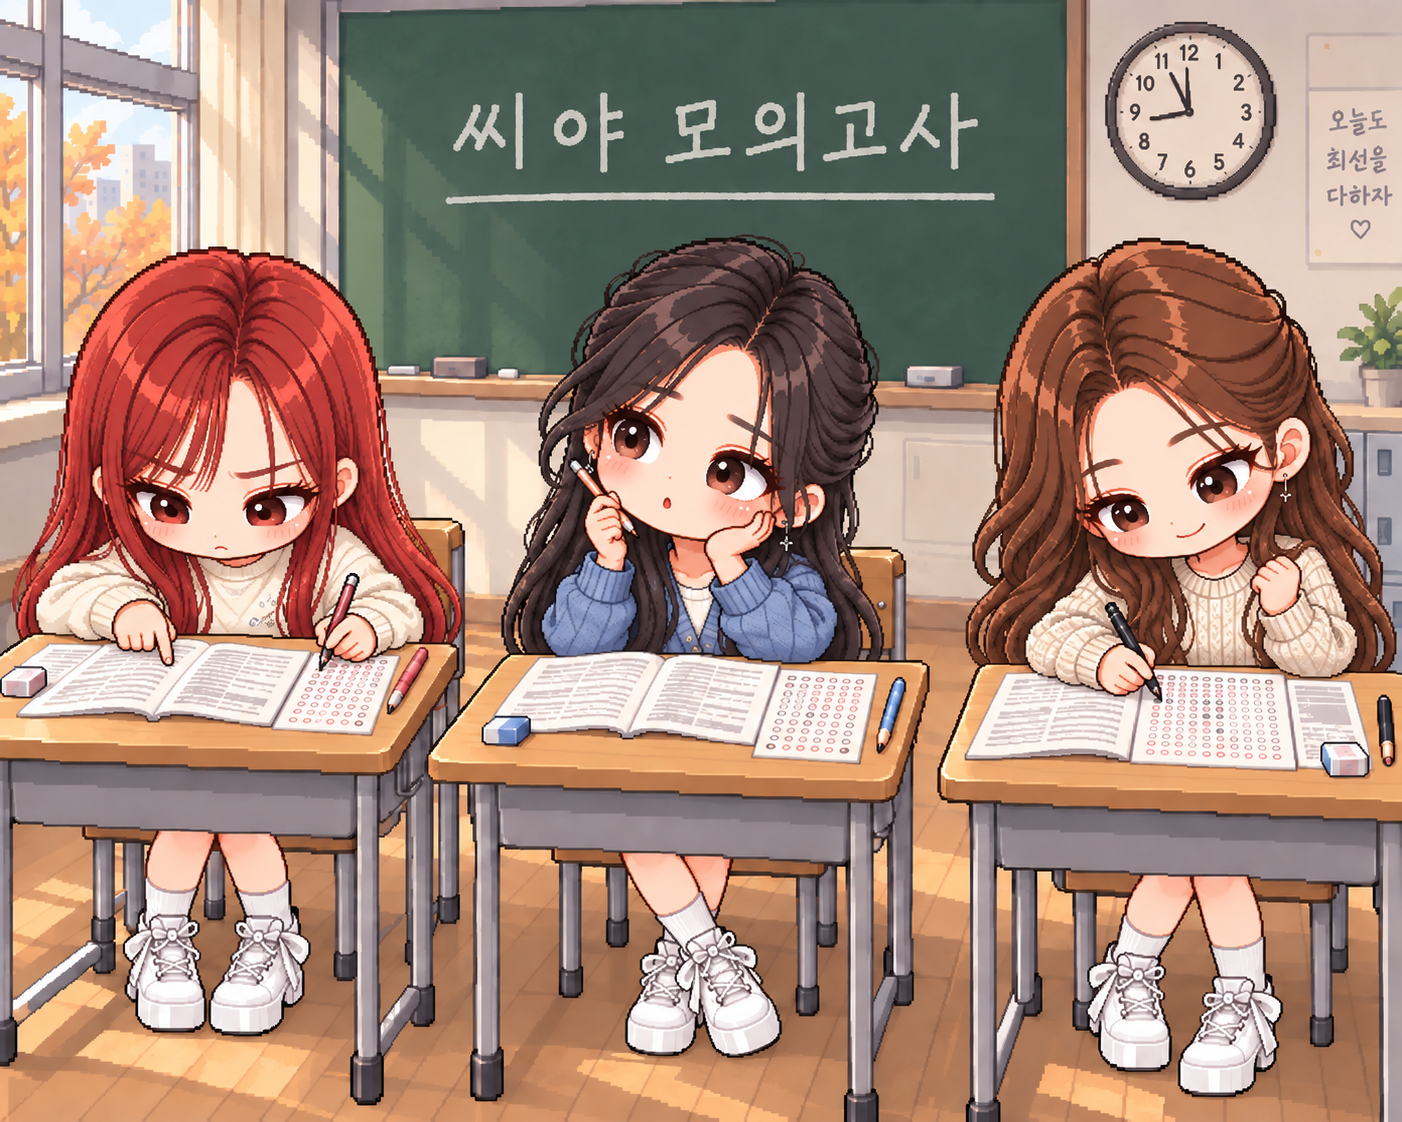
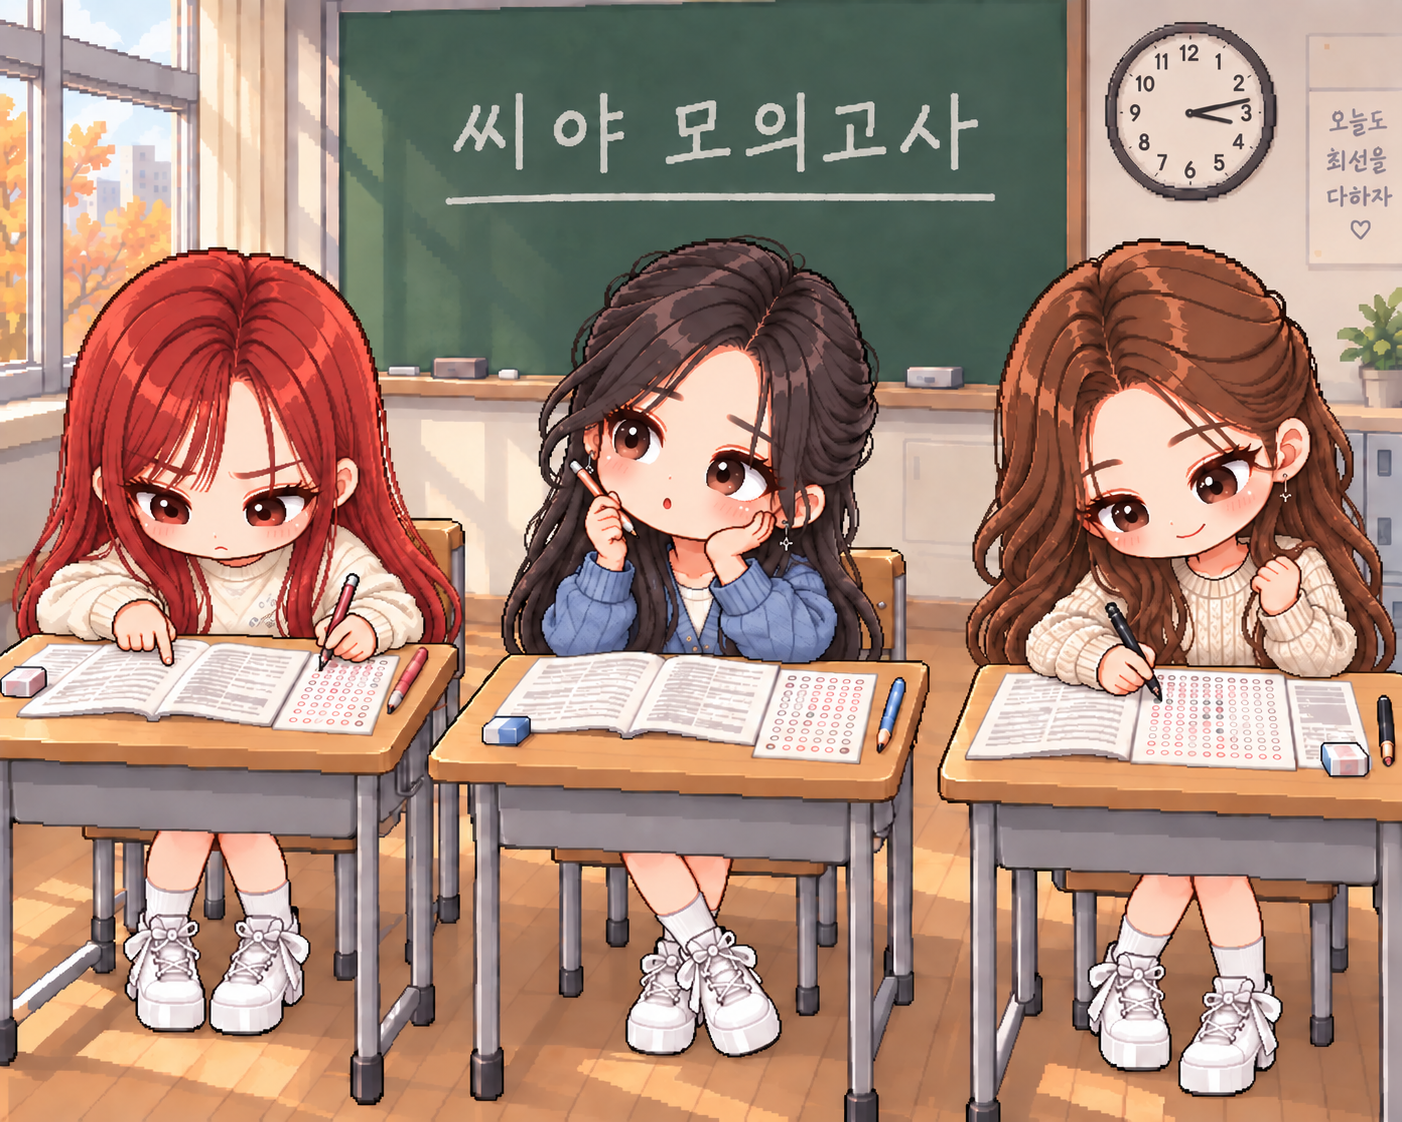
4.100

diff --git a/src/pages/exam.js b/src/pages/exam.js
@@ -7,7 +7,7 @@ module.exports=()=>W(`<section class="game-hub game-exam-page">
     <h1>씨야 모의고사</h1>
     <p>씨야와 함께한 시간, 얼마나 기억하고 있나요?<br>팬심을 확인할 새로운 시험을 준비하고 있어요.</p>
   </header>
-  <figure class="game-exam-illustration"><img src="/images/game/seeya-exam.png?v=4.99" alt="교실에서 씨야 모의고사를 푸는 세 멤버의 일러스트" width="1402" height="1122"></figure>
+  <figure class="game-exam-illustration"><img src="/images/game/seeya-exam.png?v=4.100" alt="교실에서 씨야 모의고사를 푸는 세 멤버의 일러스트" width="1402" height="1122"></figure>
   <section class="game-exam-notice" aria-labelledby="exam-status-title">
     <span class="game-card-kicker">SEEYA EXAM</span>
     <h2 id="exam-status-title">업데이트 예정</h2>

diff --git a/src/pages/games.js b/src/pages/games.js
@@ -18,7 +18,7 @@ module.exports=()=>W(`<section class="game-hub">
       </div>
     </a>
     <a class="game-card game-card-exam" href="/game/exam/" aria-labelledby="game-exam-title" aria-describedby="game-exam-description game-exam-status">
-      <div class="game-card-art game-card-art-exam"><img src="/images/game/seeya-exam.png?v=4.99" alt="교실에서 씨야 모의고사를 푸는 세 멤버의 일러스트" width="1402" height="1122" loading="lazy"></div>
+      <div class="game-card-art game-card-art-exam"><img src="/images/game/seeya-exam.png?v=4.100" alt="교실에서 씨야 모의고사를 푸는 세 멤버의 일러스트" width="1402" height="1122" loading="lazy"></div>
       <div class="game-card-copy">
         <span class="game-card-kicker">02 · SEEYA EXAM</span>
         <h2 id="game-exam-title">씨야 모의고사</h2>

diff --git a/game/index.html b/game/index.html
@@ -98,7 +98,7 @@
       </div>
     </a>
     <a class="game-card game-card-exam" href="/game/exam/" aria-labelledby="game-exam-title" aria-describedby="game-exam-description game-exam-status">
-      <div class="game-card-art game-card-art-exam"><img src="/images/game/seeya-exam.png?v=4.99" alt="교실에서 씨야 모의고사를 푸는 세 멤버의 일러스트" width="1402" height="1122" loading="lazy"></div>
+      <div class="game-card-art game-card-art-exam"><img src="/images/game/seeya-exam.png?v=4.100" alt="교실에서 씨야 모의고사를 푸는 세 멤버의 일러스트" width="1402" height="1122" loading="lazy"></div>
       <div class="game-card-copy">
         <span class="game-card-kicker">02 · SEEYA EXAM</span>
         <h2 id="game-exam-title">씨야 모의고사</h2>

diff --git a/game/exam/index.html b/game/exam/index.html
@@ -87,7 +87,7 @@
     <h1>씨야 모의고사</h1>
     <p>씨야와 함께한 시간, 얼마나 기억하고 있나요?<br>팬심을 확인할 새로운 시험을 준비하고 있어요.</p>
   </header>
-  <figure class="game-exam-illustration"><img src="/images/game/seeya-exam.png?v=4.99" alt="교실에서 씨야 모의고사를 푸는 세 멤버의 일러스트" width="1402" height="1122"></figure>
+  <figure class="game-exam-illustration"><img src="/images/game/seeya-exam.png?v=4.100" alt="교실에서 씨야 모의고사를 푸는 세 멤버의 일러스트" width="1402" height="1122"></figure>
   <section class="game-exam-notice" aria-labelledby="exam-status-title">
     <span class="game-card-kicker">SEEYA EXAM</span>
     <h2 id="exam-status-title">업데이트 예정</h2>

diff --git a/README.md b/README.md
@@ -1,14 +1,14 @@
-# SEEYA ARCHIVE — v4.99
+# SEEYA ARCHIVE — v4.100
 
-v4.94 이후 변경 사항을 모두 포함한 누적 업데이트입니다. 모의고사 이미지·SEEYA PLAY 카드·오늘 날짜의 씨야·TODAY 카드 폭·로컬 배치파일을 함께 적용합니다. 중간 버전인 v4.97을 건너뛰고 v4.98만 적용했어도 이번 ZIP을 한 번 덮어쓰면 됩니다.
+모의고사 카드와 “업데이트 예정” 안내 화면을 2026년 9월 13일 오후 9시 13분에 제공받은 수정 이미지로 교체했습니다. 원본 파일을 그대로 사용하며, 주소의 버전 표시를 갱신해 이전 이미지 캐시와 구분합니다. v4.94 이후 필요한 변경 사항을 모두 포함한 누적 업데이트입니다.
 
 ## 이번 업데이트 적용
 
 1. GitHub Desktop에서 **Fetch origin → Pull origin**으로 최신 파일을 받습니다.
-2. `SEEYA_v4_99_UPLOAD.zip`의 내용물을 저장소 최상위 폴더에 같은 경로로 복사합니다.
+2. `SEEYA_v4_100_UPLOAD.zip`의 내용물을 저장소 최상위 폴더에 같은 경로로 복사합니다.
 3. 변경 내역을 확인하고 **Commit → Push**합니다. 기존 Actions의 사이트 빌드와 Pages 배포 완료를 기다립니다.
 
-이번 UPLOAD는 **v4.94~v4.98에서 바로 적용할 수 있는 누적본**입니다. 새 모의고사 이미지 파일과 관련 페이지·스타일·날짜 기능·배치파일이 모두 들어 있습니다. 기존 아카이브·뉴스·사진·방문자 데이터와 생성 HTML은 덮어쓰지 않습니다. 이미지 주소에는 버전 표시를 붙여 이전 응답이 캐시에 남아도 새 주소로 요청합니다. FULL_BACKUP은 전체 보관용이며 로컬 확인을 위해 풀 필요는 없습니다.
+이번 UPLOAD는 **v4.94~v4.99에서 바로 적용할 수 있는 누적본**입니다. 새 모의고사 이미지 파일과 관련 페이지·스타일·날짜 기능·배치파일이 모두 들어 있습니다. 기존 아카이브·뉴스·사진·방문자 데이터와 생성 HTML은 덮어쓰지 않습니다. 이미지 주소에는 버전 표시를 붙여 이전 응답이 캐시에 남아도 새 주소로 요청합니다. FULL_BACKUP은 전체 보관용이며 로컬 확인을 위해 풀 필요는 없습니다.
 
 앞으로도 UPLOAD는 직전 버전에서 바뀐 파일만 담지 않고, 이 소스 구조의 기준 버전(v4.94) 이후 필요한 소스·추가 이미지·실행 파일을 누적해 제공합니다. 지원 기준을 바꾸는 경우 README에 먼저 명시합니다. 업데이트 ZIP을 빈 폴더에 푸는 신규 설치 방식은 지원하지 않으며 기존 사이트 폴더에 덮어써야 합니다.
 

diff --git a/CHANGELOG.md b/CHANGELOG.md
@@ -1,5 +1,12 @@
 # SEEYA ARCHIVE 변경 기록
 
+## v4.100 — 모의고사 수정 이미지 교체 (2026-09-13)
+
+- 제공받은 “Codex 이미지 2026년 9월 13일 오후 09_13_24.png”를 모의고사 이미지로 교체했습니다. SEEYA PLAY 카드와 “업데이트 예정” 페이지가 같은 수정 원본을 사용합니다.
+- 이미지 요청 주소를 `seeya-exam.png?v=4.100`으로 갱신했습니다. 원본 비율과 기존 카드 배치는 유지합니다.
+- 새 이미지 파일 자체를 포함하는 v4.94 이후 누적 UPLOAD와 전체 백업을 생성했습니다. 생성 HTML·자동 데이터는 UPLOAD에 포함하지 않습니다.
+- 모바일·PC 두 화면에서 이미지 표시와 가로 넘침을 확인하고, 원본 파일 일치·정적 빌드·링크·문법·재현성을 검증했습니다. 기능과 기존 데이터는 변경하지 않았습니다.
+
 ## v4.99 — 중간 업데이트 누락 복구용 누적본 · 전체 페이지 점검 (2026-09-13)
 
 - v4.98 UPLOAD가 v4.97 적용을 전제로 한 5개 파일 수정본이어서 중간 버전을 건너뛰면 이미지·페이지·실행 파일이 누락될 수 있었습니다. 이번 UPLOAD는 v4.94 이후 필요한 변경 소스를 누적하며 모의고사 이미지 원본을 반드시 포함합니다.
